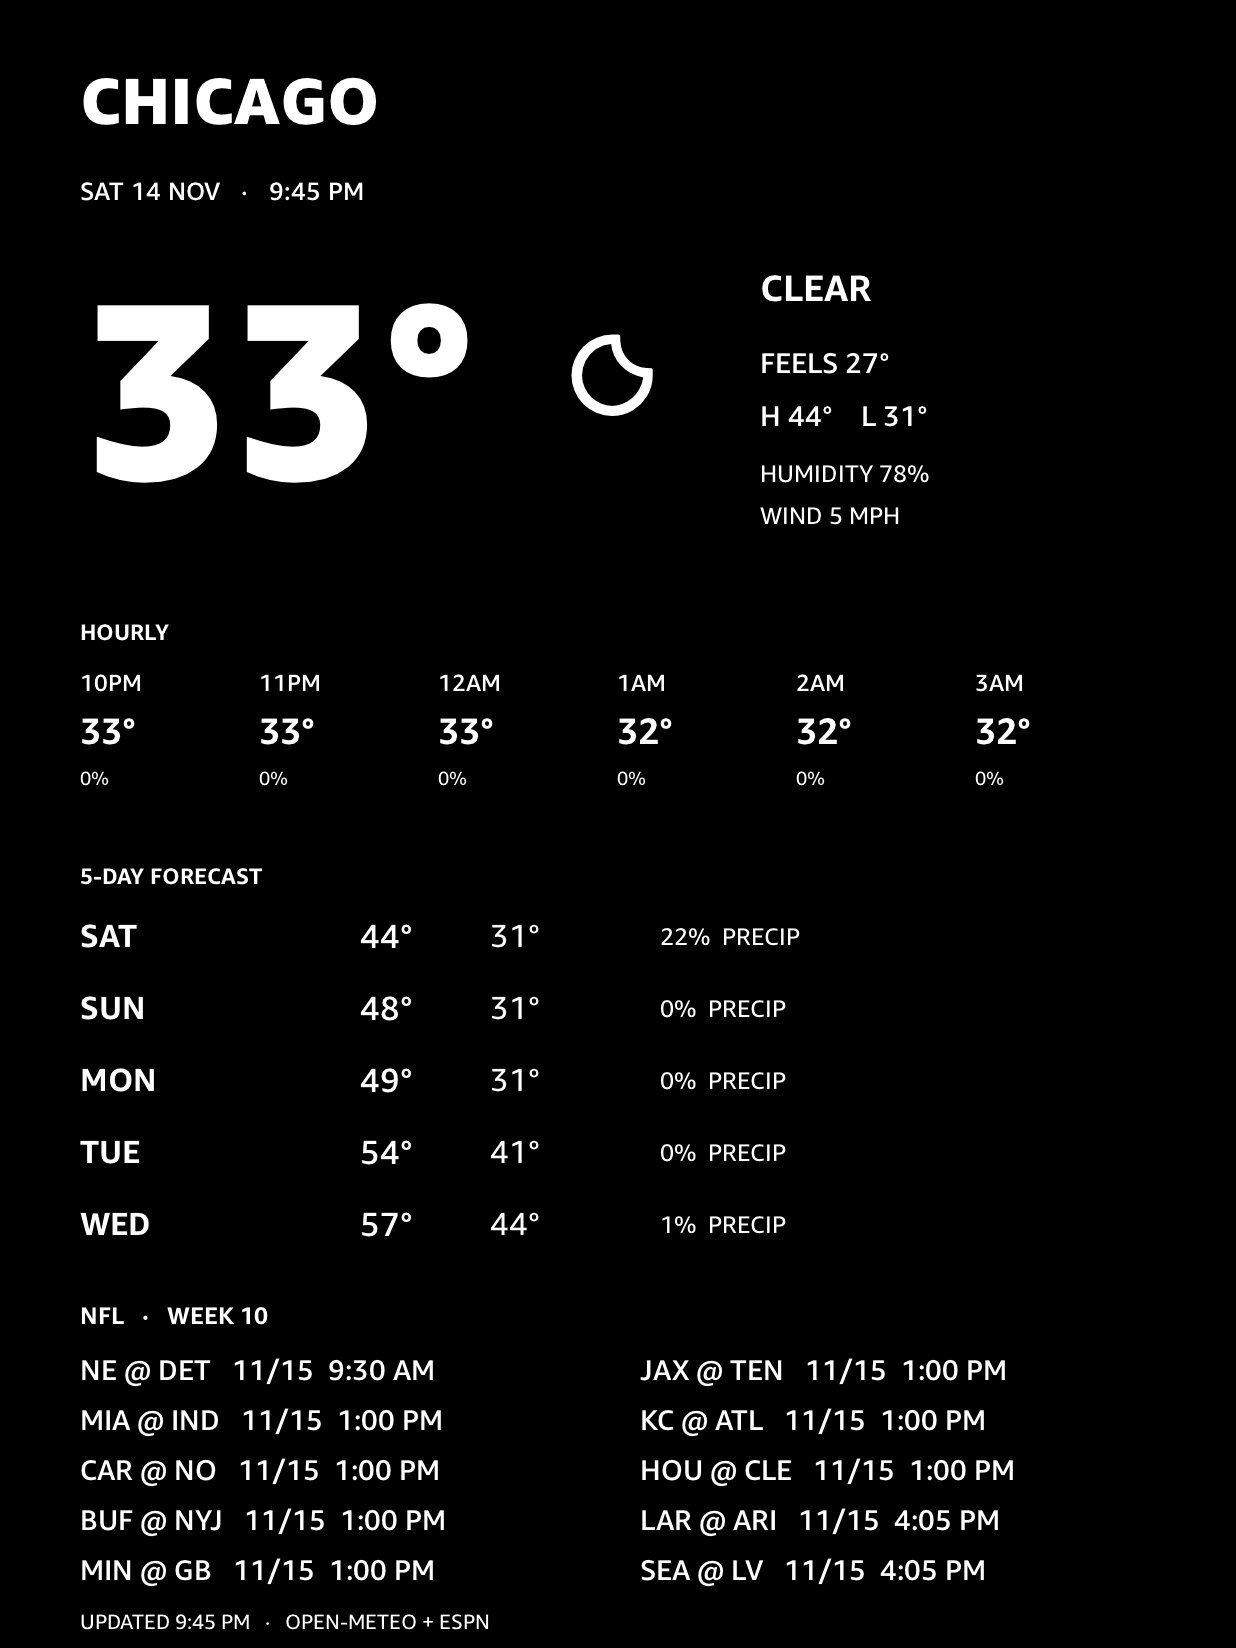
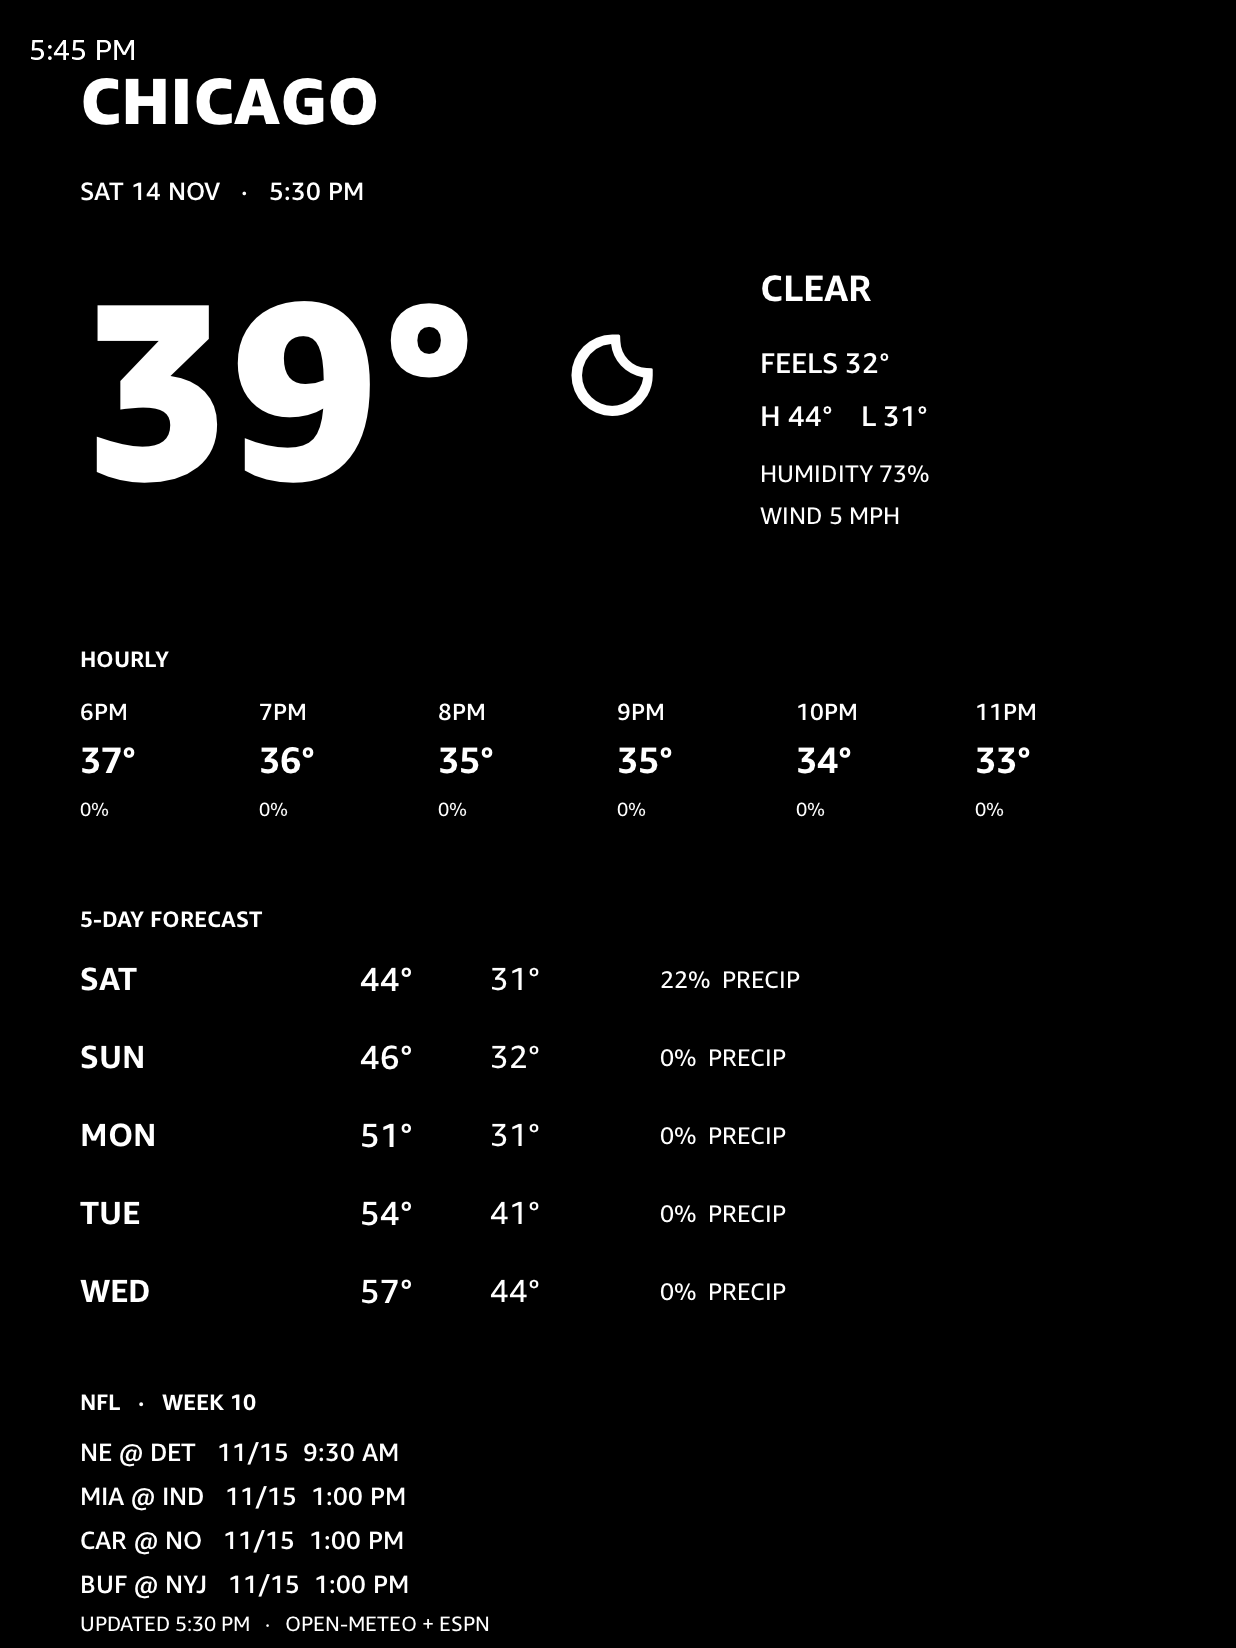
Remove NFL section — weather-only (sports becomes a separate app)

diff --git a/README.md b/README.md
@@ -2,22 +2,16 @@
 
 A clean, Swiss-typographic weather dashboard for a **jailbroken Kindle Paperwhite
 (11th gen / PW5, 1236×1648 E-Ink)**. It fetches live weather from the free
-[Open-Meteo](https://open-meteo.com) API, an NFL scoreboard from ESPN, and renders
-them on-device with crisp TrueType type — no app, no cloud service, just shell
-scripts and tools already present on a jailbroken Kindle.
+[Open-Meteo](https://open-meteo.com) API and renders it on-device with crisp
+TrueType type — no app, no cloud service, just shell scripts and tools already
+present on a jailbroken Kindle.
 
-<table>
-<tr>
-<td align="center"><img src="docs/preview.png" width="100%"><br><sub><b>Dark mode</b> — full dashboard with NFL scoreboard</sub></td>
-<td align="center"><img src="docs/light.png" width="100%"><br><sub><b>Light mode</b> — the black-on-white "paper" look</sub></td>
-</tr>
-</table>
+<p align="center"><img src="docs/preview.png" width="420"><br><sub>Black-on-white "paper" look: city, current temperature + weather icon, hourly row, 5-day forecast</sub></p>
 
 ## Features
 - Current temperature, condition, feels-like, hi/lo, humidity, wind
 - Day/night weather **icons** (Nerd Font glyphs)
 - Hourly forecast (next 6 hours) and a 5-day forecast
-- NFL scoreboard (this week's games, live/final scores) via ESPN
 - **Auto-refresh** every 30 min, with an offline cache fallback (shows last-known
   data if Wi-Fi drops)
 - **Always-on** dedicated-display mode (keeps the dashboard on screen)
@@ -33,10 +27,9 @@ curl ──► cache/weather.json ──► luajit parse.lua ──► cache/dat
 ```
 
 - **`bin/fetch.sh`** — `curl` the Open-Meteo API, cache the JSON atomically.
-- **`bin/fetch-nfl.sh`** — `curl` the ESPN NFL scoreboard.
-- **`bin/parse.lua` / `bin/parse-nfl.lua`** — decode the JSON with **luajit** (plus a
-  tiny bundled `assets/json.lua`), compute display values (rounding, weekday names,
-  icon codepoints), emit a flat `KEY=VALUE` file.
+- **`bin/parse.lua`** — decode the JSON with **luajit** (plus a tiny bundled
+  `assets/json.lua`), compute display values (rounding, weekday names, icon
+  codepoints), emit a flat `KEY=VALUE` file.
 - **`bin/render.sh`** — lay the values out on a grid using **FBInk**'s TrueType
   rendering (`fbink -t`). Change this file to change the design.
 - **`bin/dashboard.sh`** — orchestrates fetch → parse → render with cache fallback.
@@ -93,7 +86,6 @@ how many hourly columns and NFL games to show, fonts, and all on-device paths.
 
 ## Credits & inspiration
 - **Weather data:** [Open-Meteo](https://open-meteo.com) — free, no API key.
-- **NFL scoreboard:** ESPN's public scoreboard API.
 - **E-Ink rendering:** [FBInk](https://github.com/NiLuJe/FBInk) by NiLuJe.
 - **Fonts:** Amazon Ember (on-device) for type; weather glyphs from
   [Nerd Fonts](https://www.nerdfonts.com/) (Weather Icons by Erik Flowers).
@@ -103,4 +95,4 @@ how many hourly columns and NFL games to show, fonts, and all on-device paths.
 - Developed with **Claude Code**.
 
 ## License
-MIT — see [LICENSE](LICENSE). Not affiliated with Amazon, Open-Meteo, or ESPN.
+MIT — see [LICENSE](LICENSE). Not affiliated with Amazon or Open-Meteo.
